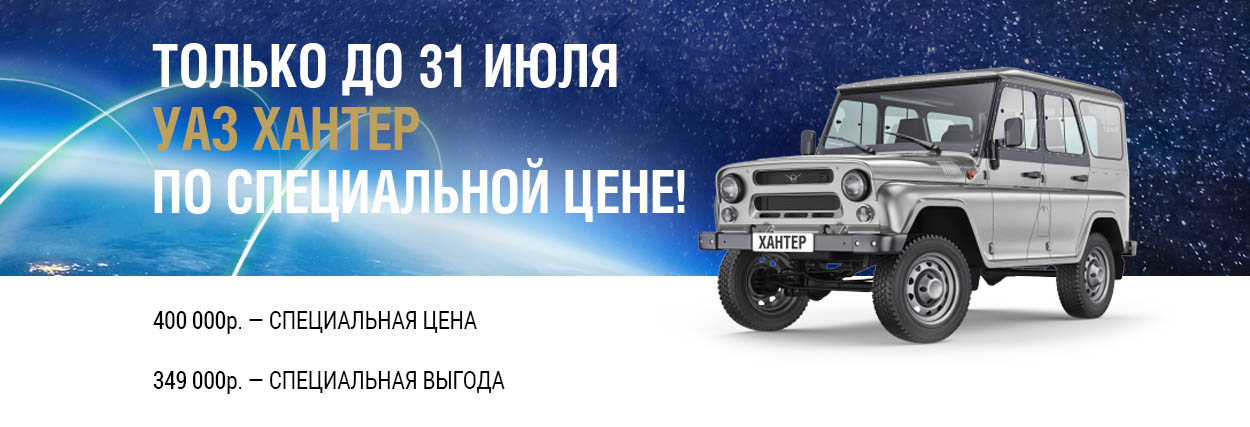
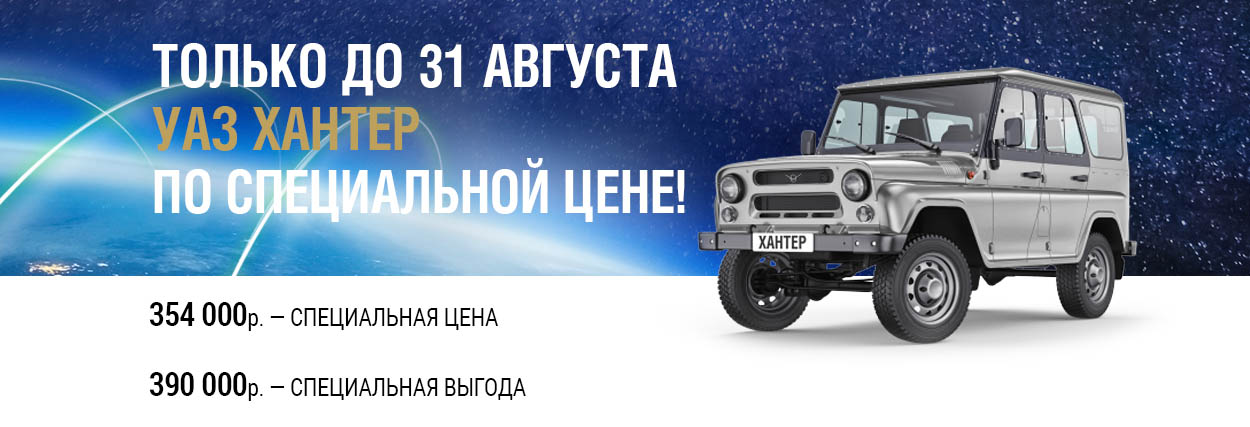
new price

Changed region(s): [[0.1248, 0.8525, 0.4368, 0.9438], [0.1248, 0.7002, 0.4056, 0.7916], [0.3744, 0.0913, 0.5616, 0.2131]]

diff --git a/hunter.html b/hunter.html
@@ -68,7 +68,7 @@
 
 
             </div>
-            <h1><b>349 000</b> рублей — максимальная выгода</h1>
+            <h1><b>390 000</b> рублей — максимальная выгода</h1>
 
 <!--             <p>Только до <strong>30 июня 2016 года.</strong> при покупке УАЗ ХАНТЕР в автосалонах Торгмаш вы можете получить скидку <strong>280 000 рублей!</strong>
             </p> -->
@@ -81,9 +81,9 @@
             <p>Только у официального дилера УАЗ «ТоргМаш» комбинированная скидка:</strong>
               </p>
               <ol>
-                <li>до 209 000 р. ДАЕМ ПРЯМЫЕ СКИДКИ</li>
-                <li>до 310 000 р. ДАРИМ ДОП.ОБОРУДОВАНИЕ</li>
-                <li>до 349 000 р. ДАЕМ СКИДКУ И ДАРИМ ОБОРУДОВАНИЕ</li>
+                <li>до 210 000 р. ДАЕМ ПРЯМЫЕ СКИДКИ</li>
+                <li>до 390 000 р. ДАРИМ ДОП.ОБОРУДОВАНИЕ</li>
+                <!-- <li>до 349 000 р. ДАЕМ СКИДКУ И ДАРИМ ОБОРУДОВАНИЕ</li> -->
               </ol>
               <p><strong>Это реально!</strong></p>
               <p>Один шаг до максимальных скидок – заполните заявку или позвоните в дилерский центр «ТоргМаш» – ВСЕ остальное мы сделаем сами!</p>

diff --git a/commerce.html b/commerce.html
@@ -80,13 +80,13 @@
                 </p>
                 <hr> -->
 
-                  <h1>МАКСИМАЛЬНАЯ ВЫГОДА <b>370 000</b> рублей!</h1>
+                  <h1>МАКСИМАЛЬНАЯ ВЫГОДА <b>400 000</b> рублей!</h1>
 
                   <p>Только у официального дилера УАЗ «ТоргМаш» комбинированная скидка:</strong>
                   </p>
                   <ol>
-                    <li>до 200 000 р. ДАЕМ ПРЯМЫЕ СКИДКИ</li>
-                    <li>до 370 000 р. ДАЕМ СКИДКУ И ДАРИМ ОБОРУДОВАНИЕ</li>
+                    <li>до 215 000 р. ДАЕМ ПРЯМЫЕ СКИДКИ</li>
+                    <li>до 400 000 р. ДАРИМ ДОП.ОБОРУДОВАНИЕ</li>
 
                   </ol>
                   <p><strong>Это реально!</strong></p>
